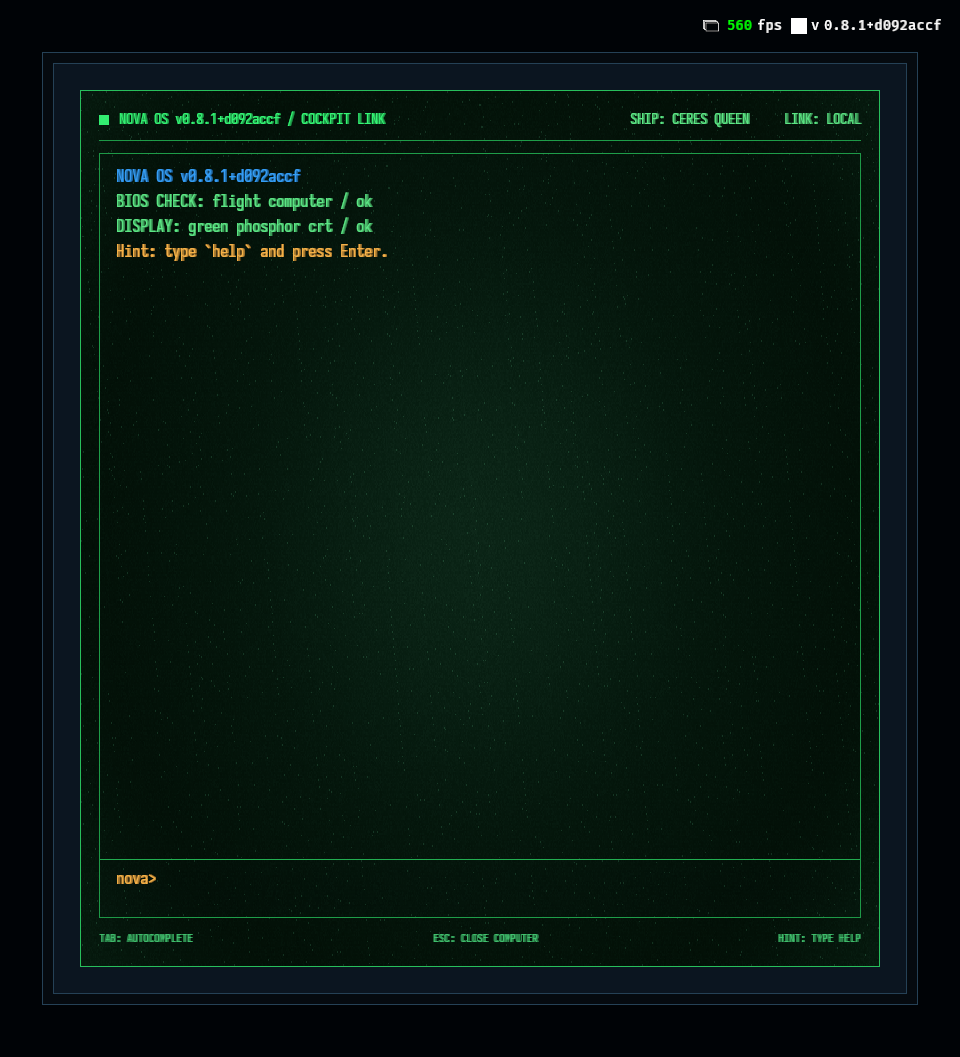
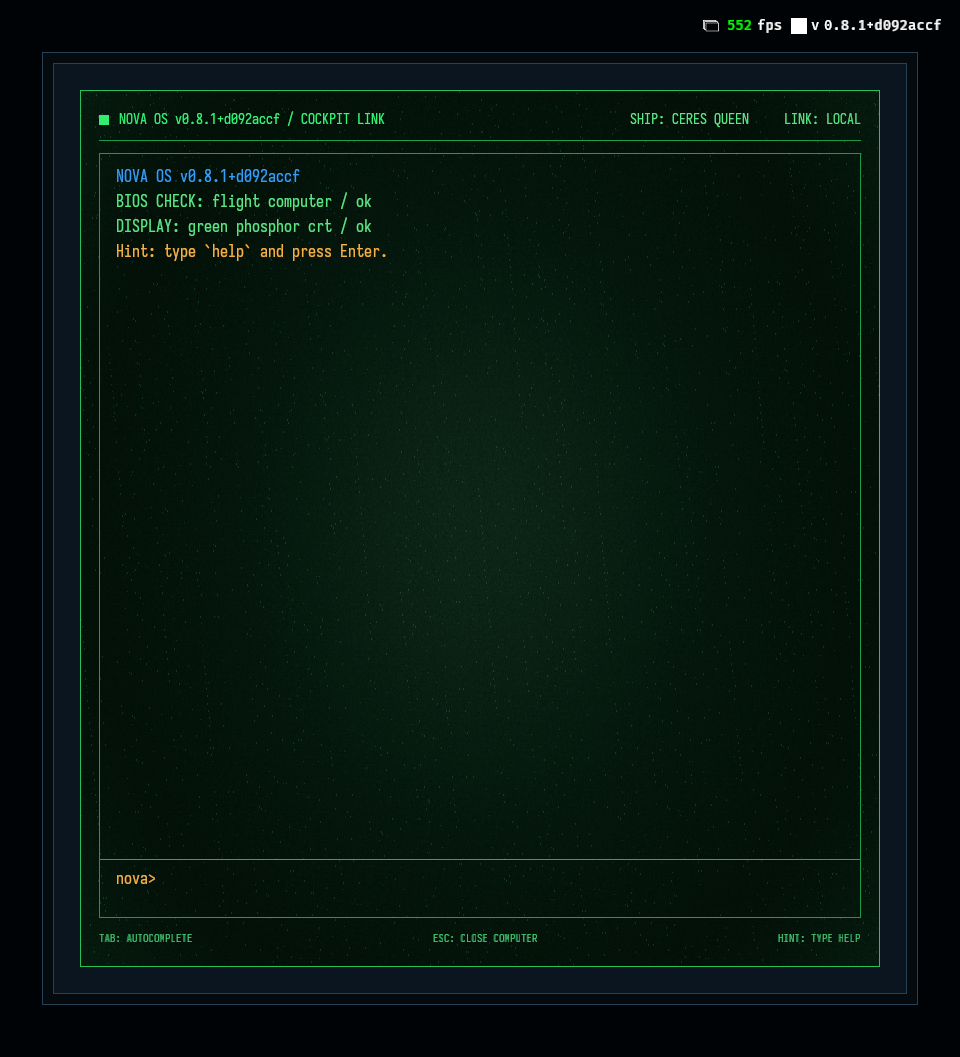
feat(hud): animated NOVA OS CRT grain; drop the doubled text shadow
Follow-up on the NOVA OS computer (task 20260726-180807):

- Remove the per-glyph text shadow: it read as doubled text, not glow. Bevy
  TextShadow has no blur and the overlay shader can't sample the text behind
  it, so a real HTML text-shadow halo would need a render-to-texture bloom pass
  (out of scope). Text is now crisp; the phosphor feel comes from the CRT
  overlay alone.
- Animated grain: add a time uniform (animate_nova_os_crt, real time, gated on
  the open computer) so the shader reseeds its fine grain layer ~9x/sec for a
  gentle, non-distracting shimmer; the coarse layer stays static.

diff --git a/crates/nova_gameplay/src/hud/drawer.rs b/crates/nova_gameplay/src/hud/drawer.rs
@@ -412,6 +412,9 @@ struct NovaOsCrtUniform {
     vignette_strength: f32,
     glow_strength: f32,
     grain_strength: f32,
+    /// Real-time seconds, updated each frame by [`animate_nova_os_crt`] so the
+    /// grain shimmers gently.
+    time: f32,
 }
 
 #[derive(Default, TypePath)]
@@ -447,6 +450,7 @@ impl Default for NovaOsCrtMaterial {
                 vignette_strength: NOVA_OS_CRT_VIGNETTE_STRENGTH,
                 glow_strength: NOVA_OS_CRT_GLOW_STRENGTH,
                 grain_strength: NOVA_OS_CRT_GRAIN_STRENGTH,
+                time: 0.0,
             },
         }
     }
@@ -1150,10 +1154,14 @@ impl Plugin for NovaDrawerPlugin {
                 .chain()
                 .in_set(NovaHudSystems),
         );
-        // Blink the caret on real time (virtual time is paused while open).
+        // Blink the caret and shimmer the CRT grain on real time (virtual time is
+        // paused while the computer is open).
         app.add_systems(
             Update,
-            blink_nova_os_caret
+            (
+                blink_nova_os_caret,
+                animate_nova_os_crt.run_if(resource_exists::<Assets<NovaOsCrtMaterial>>),
+            )
                 .run_if(in_state(PauseStates::Drawer))
                 .in_set(NovaHudSystems),
         );
@@ -1406,10 +1414,10 @@ fn rebuild_terminal_ui(
         With<NovaOsTerminalScrollbackMarker>,
     >,
     mut text_targets: ParamSet<(
-        Query<(&mut Text, &mut TextColor, &mut TextShadow), With<NovaOsTerminalPromptMarker>>,
-        Query<(&mut Text, &mut TextColor, &mut TextShadow), With<NovaOsTerminalPromptAfterMarker>>,
-        Query<(&mut Text, &mut TextColor, &mut TextShadow), With<NovaOsTerminalHintMarker>>,
-        Query<(&mut Text, &mut TextColor, &mut TextShadow), With<NovaOsTerminalGhostMarker>>,
+        Query<(&mut Text, &mut TextColor), With<NovaOsTerminalPromptMarker>>,
+        Query<(&mut Text, &mut TextColor), With<NovaOsTerminalPromptAfterMarker>>,
+        Query<(&mut Text, &mut TextColor), With<NovaOsTerminalHintMarker>>,
+        Query<(&mut Text, &mut TextColor), With<NovaOsTerminalGhostMarker>>,
     )>,
 ) {
     let font = nova_os_font(asset_server.as_deref());
@@ -1428,17 +1436,15 @@ fn rebuild_terminal_ui(
     }
 
     let prompt_color = prompt_color(&terminal);
-    for (mut text, mut color, mut bloom) in &mut text_targets.p0() {
+    for (mut text, mut color) in &mut text_targets.p0() {
         text.0 = prompt_before_cursor(&terminal);
         color.0 = prompt_color;
-        *bloom = nova_os_text_bloom(prompt_color);
     }
-    for (mut text, mut color, mut bloom) in &mut text_targets.p1() {
+    for (mut text, mut color) in &mut text_targets.p1() {
         text.0 = prompt_after_cursor(&terminal);
         color.0 = prompt_color;
-        *bloom = nova_os_text_bloom(prompt_color);
     }
-    for (mut text, mut color, mut bloom) in &mut text_targets.p2() {
+    for (mut text, mut color) in &mut text_targets.p2() {
         text.0 = prompt_hint_display(&terminal);
         let hint_color = match terminal.parse_status {
             TerminalParseStatus::Invalid => theme::semantic::THREAT,
@@ -1446,13 +1452,10 @@ fn rebuild_terminal_ui(
             TerminalParseStatus::Empty | TerminalParseStatus::Valid => NOVA_OS_PHOSPHOR_DIM,
         };
         color.0 = hint_color;
-        *bloom = nova_os_text_bloom(hint_color);
     }
-    for (mut text, mut color, mut bloom) in &mut text_targets.p3() {
+    for (mut text, mut color) in &mut text_targets.p3() {
         text.0 = prompt_completion_ghost(&terminal);
-        let ghost_color = NOVA_OS_TEXT.with_alpha(0.34);
-        color.0 = ghost_color;
-        *bloom = nova_os_text_bloom(ghost_color);
+        color.0 = NOVA_OS_TEXT.with_alpha(0.34);
     }
 }
 
@@ -1470,6 +1473,16 @@ fn blink_nova_os_caret(
     }
 }
 
+/// Feed real-time seconds into the CRT material each frame so its grain shimmers
+/// (the shader reseeds the fine grain layer from this). Real time because the
+/// sim clock is frozen while the computer is open.
+fn animate_nova_os_crt(time: Res<Time<Real>>, mut materials: ResMut<Assets<NovaOsCrtMaterial>>) {
+    let seconds = time.elapsed_secs();
+    for (_, material) in materials.iter_mut() {
+        material.data.time = seconds;
+    }
+}
+
 fn spawn_terminal_row(parent: &mut ChildSpawnerCommands, row: &TerminalRow, font: Handle<Font>) {
     let color = match row.kind {
         TerminalRowKind::Input => NOVA_OS_AMBER,
@@ -1483,7 +1496,6 @@ fn spawn_terminal_row(parent: &mut ChildSpawnerCommands, row: &TerminalRow, font
         Text::new(row.text.clone()),
         nova_os_text_font(DRAWER_LINE_FONT_PX, font),
         TextColor(color),
-        nova_os_text_bloom(color),
         TextLayout {
             justify: Justify::Left,
             linebreak: LineBreak::WordBoundary,
@@ -1561,19 +1573,11 @@ fn nova_os_prompt_text_layout() -> TextLayout {
     }
 }
 
-/// Horizontal offset of the phosphor bleed shadow, in logical px.
-const NOVA_OS_TEXT_BLEED_PX: f32 = 1.4;
-
-/// A phosphor glow behind each glyph, offset a hair sideways so it reads as a
-/// horizontal CRT phosphor bleed/halo rather than flat paint (a zero-offset
-/// shadow is invisible - it sits exactly behind the glyph). This is what gives
-/// the text its glow.
-fn nova_os_text_bloom(color: Color) -> TextShadow {
-    TextShadow {
-        offset: Vec2::new(NOVA_OS_TEXT_BLEED_PX, 0.0),
-        color: color.with_alpha(0.7),
-    }
-}
+// The terminal text is drawn crisp, with no per-glyph shadow: Bevy's `TextShadow`
+// has no blur, so a faked glow reads as a doubled/offset shadow rather than the
+// HTML's soft `text-shadow: 0 0 7px` halo. The screen's phosphor feel comes from
+// the CRT overlay (centre glow + grain) instead. A true blurred glow would need a
+// render-to-texture bloom pass over the terminal content, out of scope here.
 
 fn scroll_drawer_panels(
     mut wheel: MessageReader<bevy::input::mouse::MouseWheel>,
@@ -2305,7 +2309,6 @@ fn spawn_nova_os_terminal_content(
                                 )),
                                 nova_os_text_font(DRAWER_SECTION_TITLE_FONT_PX, font.clone()),
                                 TextColor(NOVA_OS_PHOSPHOR),
-                                nova_os_text_bloom(NOVA_OS_PHOSPHOR),
                             ));
                         });
                     topbar.spawn((
@@ -2313,7 +2316,6 @@ fn spawn_nova_os_terminal_content(
                         Text::new(nova_os_status_text(ship_name)),
                         nova_os_text_font(DRAWER_SECTION_TITLE_FONT_PX, font.clone()),
                         TextColor(NOVA_OS_PHOSPHOR_DIM),
-                        nova_os_text_bloom(NOVA_OS_PHOSPHOR_DIM),
                     ));
                 });
 
@@ -2396,7 +2398,6 @@ fn spawn_nova_os_terminal_content(
                                         Text::new("nova>"),
                                         nova_os_text_font(DRAWER_LINE_FONT_PX, font.clone()),
                                         TextColor(NOVA_OS_AMBER),
-                                        nova_os_text_bloom(NOVA_OS_AMBER),
                                         Node {
                                             flex_shrink: 0.0,
                                             ..default()
@@ -2428,7 +2429,6 @@ fn spawn_nova_os_terminal_content(
                                                     font.clone(),
                                                 ),
                                                 TextColor(NOVA_OS_PHOSPHOR),
-                                                nova_os_text_bloom(NOVA_OS_PHOSPHOR),
                                                 nova_os_prompt_text_layout(),
                                                 Node {
                                                     flex_shrink: 0.0,
@@ -2455,7 +2455,6 @@ fn spawn_nova_os_terminal_content(
                                                     font.clone(),
                                                 ),
                                                 TextColor(NOVA_OS_PHOSPHOR),
-                                                nova_os_text_bloom(NOVA_OS_PHOSPHOR),
                                                 nova_os_prompt_text_layout(),
                                                 Node {
                                                     flex_shrink: 0.0,
@@ -2471,7 +2470,6 @@ fn spawn_nova_os_terminal_content(
                                                     font.clone(),
                                                 ),
                                                 TextColor(NOVA_OS_TEXT.with_alpha(0.34)),
-                                                nova_os_text_bloom(NOVA_OS_TEXT.with_alpha(0.34)),
                                                 nova_os_prompt_text_layout(),
                                                 Node {
                                                     flex_shrink: 0.0,
@@ -2485,7 +2483,6 @@ fn spawn_nova_os_terminal_content(
                                 Text::new(""),
                                 nova_os_text_font(12.0, font.clone()),
                                 TextColor(NOVA_OS_PHOSPHOR_MUTED),
-                                nova_os_text_bloom(NOVA_OS_PHOSPHOR_MUTED),
                                 Node {
                                     width: Val::Percent(100.0),
                                     min_height: Val::Px(16.0),
@@ -2518,7 +2515,6 @@ fn spawn_nova_os_terminal_content(
                             Text::new(hint),
                             nova_os_text_font(11.0, font.clone()),
                             TextColor(NOVA_OS_PHOSPHOR_MUTED),
-                            nova_os_text_bloom(NOVA_OS_PHOSPHOR_MUTED),
                         ));
                     }
                 });
@@ -3196,12 +3192,9 @@ mod tests {
             .run_system_once(rebuild_terminal_ui)
             .expect("terminal UI rebuild runs");
 
-        let (prompt, prompt_color, prompt_node, prompt_bloom) = app
+        let (prompt, prompt_color, prompt_node) = app
             .world_mut()
-            .query_filtered::<
-                (&Text, &TextColor, &Node, &TextShadow),
-                With<NovaOsTerminalPromptMarker>,
-            >()
+            .query_filtered::<(&Text, &TextColor, &Node), With<NovaOsTerminalPromptMarker>>()
             .single(app.world())
             .expect("one terminal prompt");
         assert_eq!(prompt.0, "hlep");
@@ -3210,15 +3203,19 @@ mod tests {
             prompt_node.flex_shrink, 0.0,
             "typed input must not collapse inside the prompt row"
         );
+        // The terminal text carries no per-glyph shadow (crisp phosphor).
         assert!(
-            prompt_bloom.offset == Vec2::new(NOVA_OS_TEXT_BLEED_PX, 0.0)
-                && prompt_bloom.color.alpha() <= 0.71,
-            "terminal prompt bloom is a small horizontal phosphor bleed"
+            app.world_mut()
+                .query_filtered::<&TextShadow, With<NovaOsTerminalPromptMarker>>()
+                .iter(app.world())
+                .next()
+                .is_none(),
+            "terminal prompt text has no shadow/bloom glyph"
         );
 
-        let (ghost, ghost_node, ghost_bloom) = app
+        let (ghost, ghost_node) = app
             .world_mut()
-            .query_filtered::<(&Text, &Node, &TextShadow), With<NovaOsTerminalGhostMarker>>()
+            .query_filtered::<(&Text, &Node), With<NovaOsTerminalGhostMarker>>()
             .single(app.world())
             .expect("one terminal autocomplete ghost");
         assert_eq!(ghost.0, "");
@@ -3231,24 +3228,14 @@ mod tests {
             PositionType::Relative,
             "autocomplete ghost stays inline after the visible prompt text"
         );
-        assert!(
-            ghost_bloom.offset == Vec2::new(NOVA_OS_TEXT_BLEED_PX, 0.0)
-                && ghost_bloom.color.alpha() <= 0.71,
-            "autocomplete ghost bloom is a small horizontal phosphor bleed"
-        );
 
-        let (prefix, prefix_color, prefix_bloom) = app
+        let (prefix, prefix_color) = app
             .world_mut()
-            .query_filtered::<(&Text, &TextColor, &TextShadow), With<NovaOsPromptPrefixMarker>>()
+            .query_filtered::<(&Text, &TextColor), With<NovaOsPromptPrefixMarker>>()
             .single(app.world())
             .expect("one terminal prompt prefix");
         assert_eq!(prefix.0, "nova>");
         assert_eq!(prefix_color.0, NOVA_OS_AMBER);
-        assert!(
-            prefix_bloom.offset == Vec2::new(NOVA_OS_TEXT_BLEED_PX, 0.0)
-                && prefix_bloom.color.alpha() <= 0.71,
-            "prompt prefix bloom is a small horizontal phosphor bleed"
-        );
 
         let (hint, hint_color, hint_node) = app
             .world_mut()

diff --git a/tasks/20260726-180807/NOTES.md b/tasks/20260726-180807/NOTES.md
@@ -147,6 +147,22 @@ User feedback after the first land, addressed directly on master in the same tas
   plus sparse brighter spark cells, so it reads as lit CRT phosphor dots rather
   than a flat film. Verified on a fresh capture.
 
+## Feedback round 3 (post-land, on master)
+
+- Text glow removed: the horizontal phosphor-bleed shadow read as doubled text,
+  not a glow. Bevy's `TextShadow` has no blur, and the overlay shader cannot
+  sample the text behind it, so a true HTML `text-shadow: 0 0 7px` halo is not
+  achievable without a render-to-texture bloom pass over the terminal content
+  (out of scope). Per the user's "I'd rather not add it than have the shadow",
+  the per-glyph shadow was removed entirely - `nova_os_text_bloom` and all its
+  call sites / `TextShadow` wiring are gone, so the text is crisp. The phosphor
+  feel now comes only from the CRT overlay (centre glow + grain).
+- Animated grain: the CRT is already a shader; added a `time` uniform fed each
+  frame by `animate_nova_os_crt` (real time, gated on `PauseStates::Drawer`), and
+  the shader reseeds the fine grain layer ~9x/sec (`floor(time*9)`) so it shimmers
+  gently. The coarse layer stays static so the texture keeps a stable structure
+  under the shimmer - mild, non-distracting movement.
+
 ## Self-reflection
 
 The durable lesson from `142635`'s RETRO held: build the capture harness FIRST,
